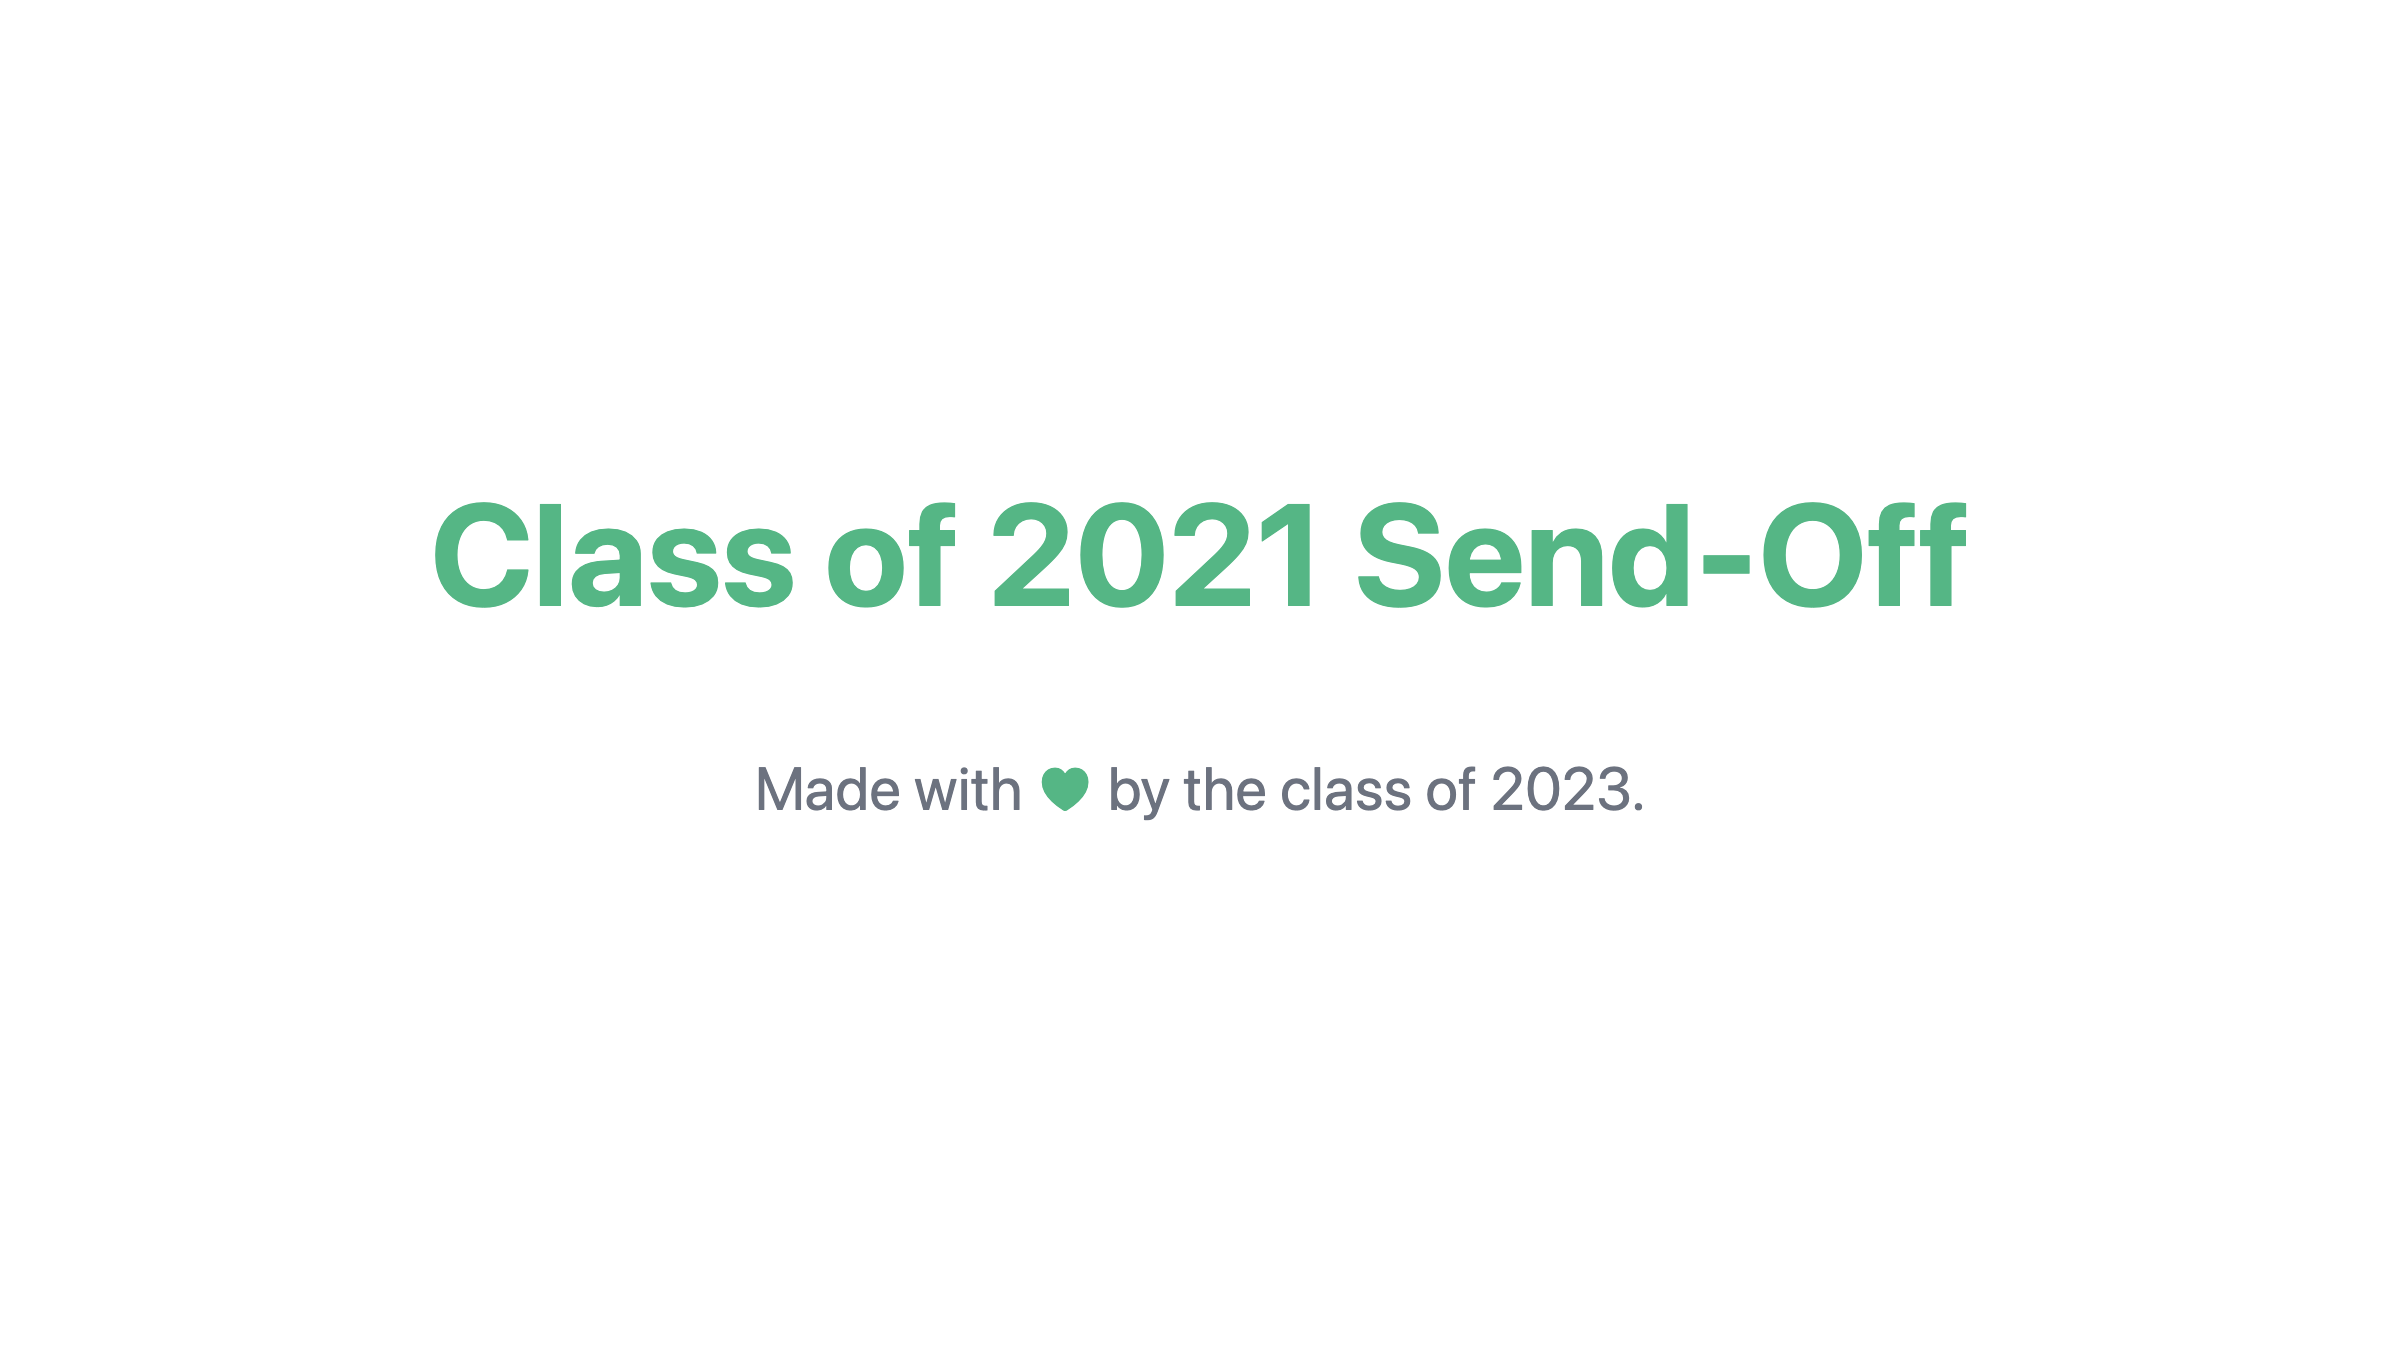
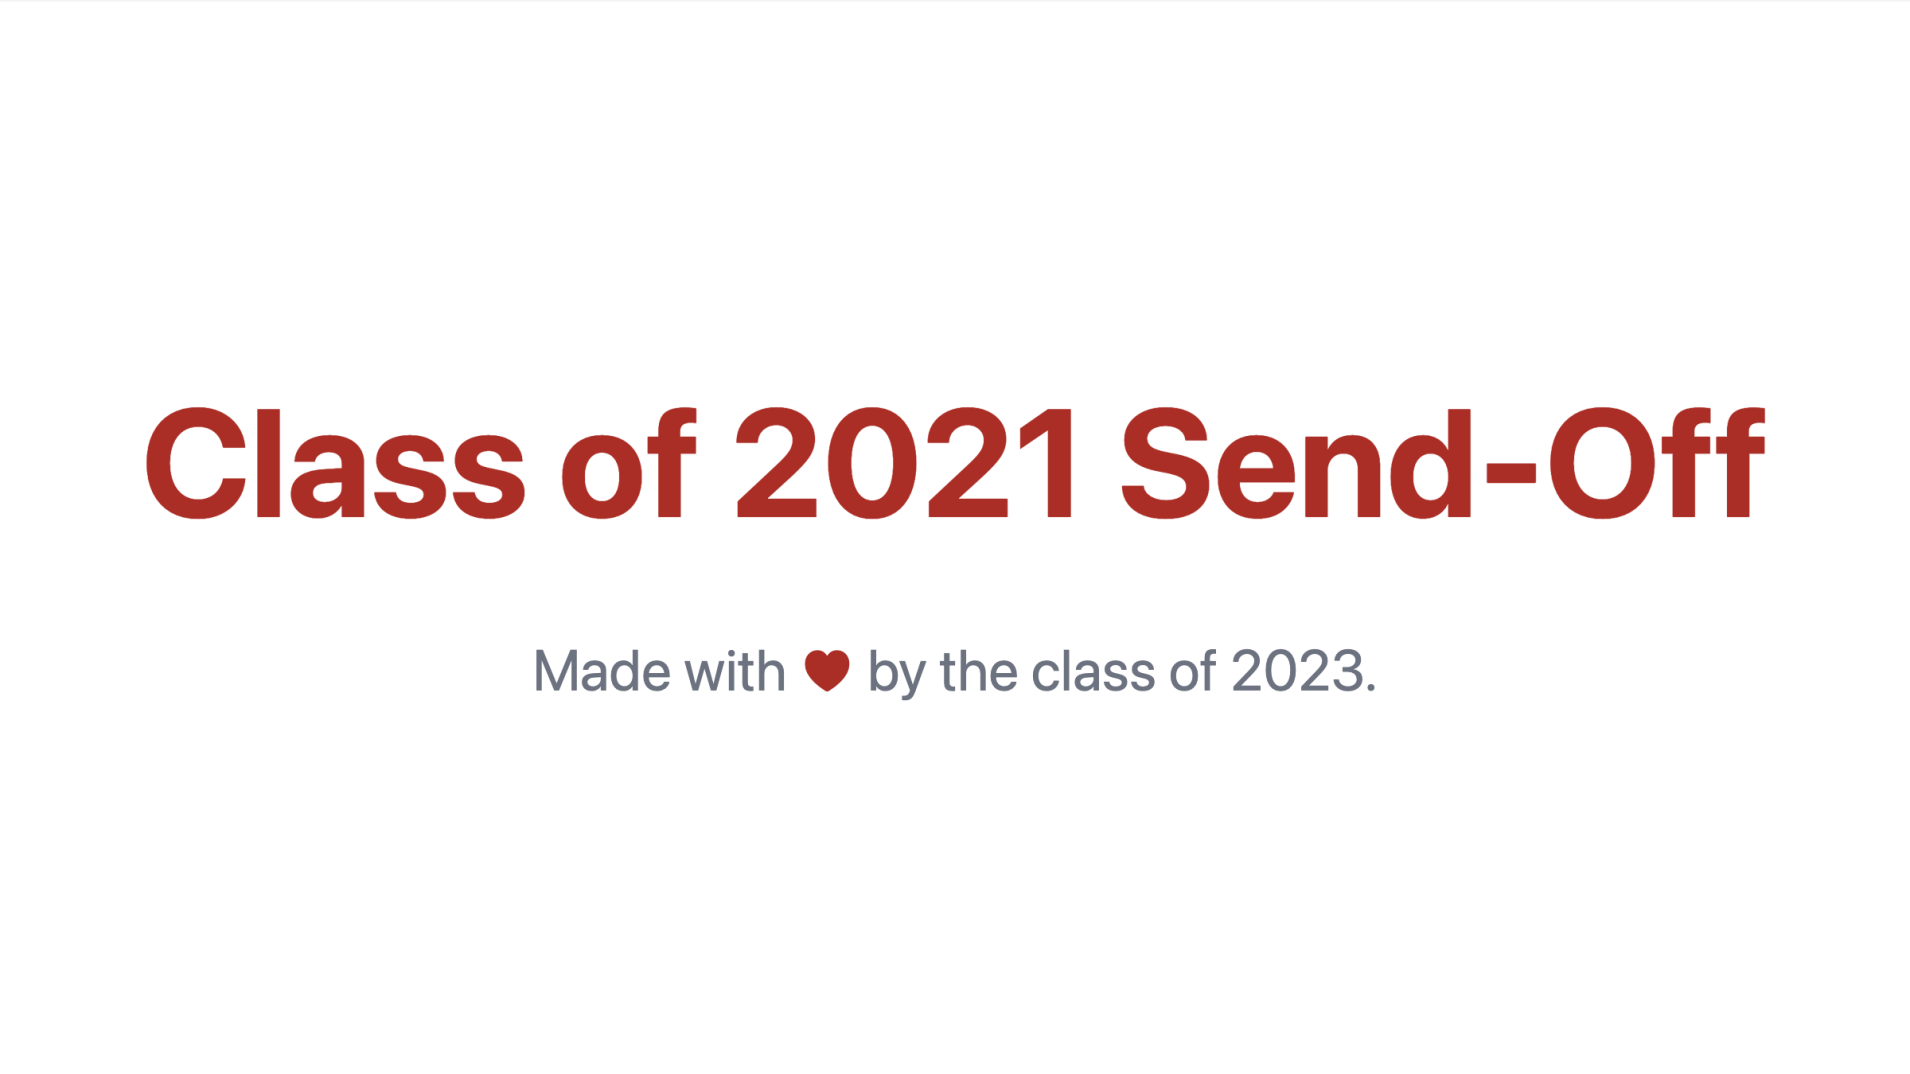
style: red theme color

Changed region(s): [[0.0618, 0.3687, 0.9267, 0.4916], [0.278, 0.5531, 0.7105, 0.6453]]

diff --git a/layouts/embed.vue b/layouts/embed.vue
@@ -2,8 +2,8 @@
 <div>
 
   <div class="bg-white mx-10 my-10 text-center" style="height:675px;width:1200px">
-      <h1 class="text-7xl pt-60 mx-auto font-bold text-green-500">Class of 2021 Send-Off</h1>
-      <h3 class="text-gray-500 text-3xl pt-16">Made with <span class="text-green-500">♥</span> by the class of 2023.</h3>
+      <h1 class="text-8xl pt-60 mx-auto font-bold text-red-700">Class of 2021 Send-Off</h1>
+      <h3 class="text-gray-500 text-4xl pt-16">Made with <span class="text-red-700">♥</span> by the class of 2023.</h3>
   </div>
   </div>
 </template>

diff --git a/layouts/default.vue b/layouts/default.vue
@@ -1,6 +1,6 @@
 <template>
   <div class=" ">
-  <h1 class="text-4xl pt-20 mx-10 md:mx-20 font-bold text-green-500">Class of 2021 Send-Off</h1>
+  <h1 class="text-4xl pt-20 mx-10 md:mx-20 font-bold text-red-700">Class of 2021 Send-Off</h1>
     <Nuxt />
     <div class=" px-10 md:px-20 py-5 fixed w-full bottom-0 h-16 bg-gray-200">
       <nuxt-content v-if="footer" :document="footer"/>

diff --git a/nuxt.config.js b/nuxt.config.js
@@ -51,7 +51,7 @@ export default {
     meta:{
       name:'Class of 2021 Send-Off',
       description:'A collection of memories to send off the class of 2021 with lots of love!',
-      theme_color:'#10B981',
+      theme_color:'#B91C1B',
       ogHost:'https://saumyasinghal747.github.io/senior-quotes',
       twitterCard:'summary_large_image',
       ogImage:{

diff --git a/pages/index.vue b/pages/index.vue
@@ -7,7 +7,7 @@
       <div class="text-right text-sm pt-4 ">
         <span class="text-gray-500">{{note.name || 'Anonymous'}} - {{note.grade}}</span>
 
-        <span class="text-green-500">• {{ niceDate(note.timestamp) }}</span>
+        <span class="text-red-700">• {{ niceDate(note.timestamp) }}</span>
         </div>
     </div>
   </div>

diff --git a/content/footer.md b/content/footer.md
@@ -1,1 +1,1 @@
-Made with :green_heart: by the class of 2023.
+Made with :heart:  by the class of 2023.
